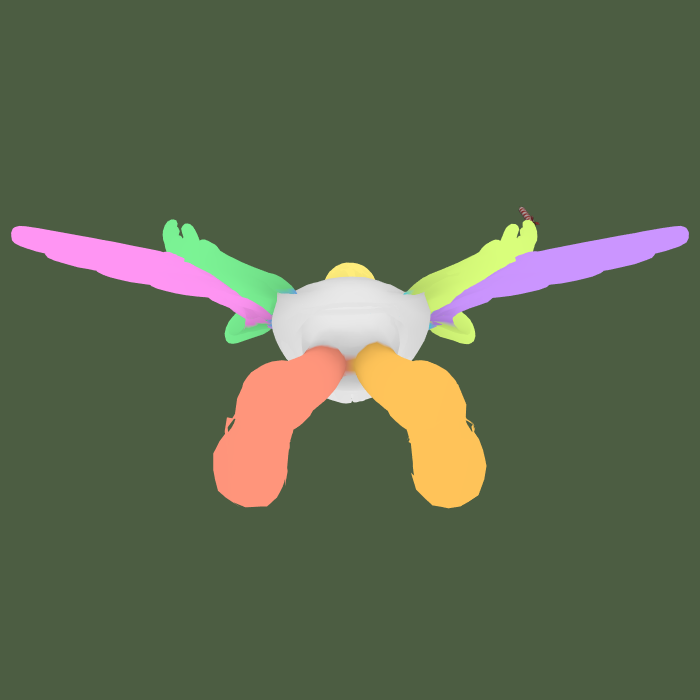
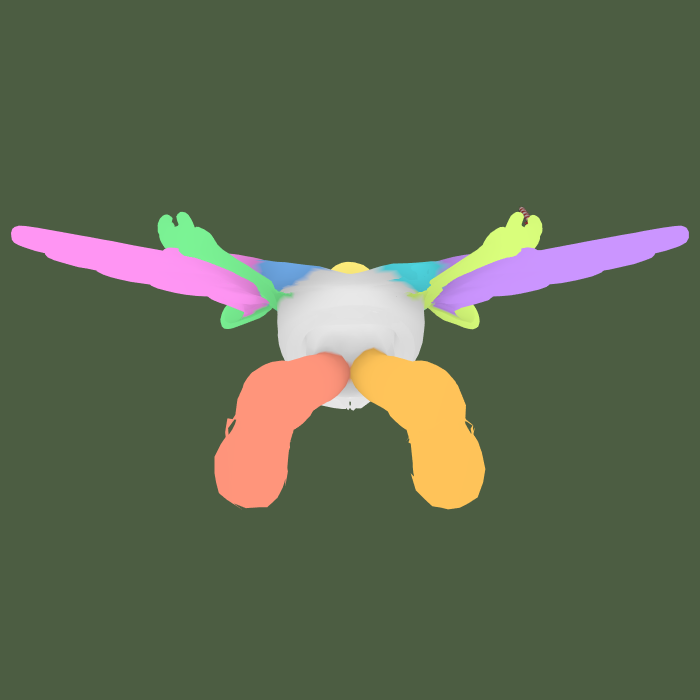
Leave the torso alone — the collarbone takes none of the swing
Whatever share the collarbone takes of the arm's rotation, it takes by
turning the top of the torso, and the torso is the one part of this figure
that needs no help from us. The jacket has a shoulder line, lapels, a collar
and a zip, and all four survive exactly as long as nothing turns them. At
0.45 the shoulders swelled into round pads and took the lapels with them; at
0.80 they hunched forward far enough that from below the whole figure read
as a ball.

Zero. The scan is left as the generator made it and only the arms swing off
it — which is what it was asked for, and it is not a compromise: the blend
the collarbone was added to provide was a splint for straight-line weighting
that let the arm claim the flank, and weighting along the surface keeps them
apart on its own.

The chest-drag check passed at 0.45 and at 0.80 — 0.7 cm and 1.2 cm on a
figure one unit tall, inside a two-centimetre tolerance and visibly wrong
both times. It is a floor, not a verdict, and I read it as a verdict twice.
At zero the chest moves 0.0 cm because it is never asked to move.

Cost: from directly overhead with the wings out, the sleeve passes through
the wing root again. That is a diagnostic angle, against a torso that is on
screen the whole time.

Claude-Session: https://claude.ai/code/session_01AbPj1ecgWZX5NRERgq23EA

diff --git a/src/player/avatar.js b/src/player/avatar.js
@@ -421,8 +421,32 @@ const SKIN_SOFTEN = 0.015;
  *  limb. Legs are set 0.051 apart, so this keeps them from dragging on each
  *  other while still letting the crotch stretch between them. */
 const SKIN_MIDLINE = 0.03;
-/** How much of an arm's swing the collarbone takes rather than the shoulder. */
-const SCAN_CLAVICLE = 0.80;
+/**
+ * How much of an arm's swing the collarbone takes rather than the shoulder.
+ *
+ * None of it, and that is the answer rather than a number to tune. Whatever
+ * share the collarbone takes, it takes by rotating the top of the torso, and
+ * the torso is the one part of this figure that was photographed from every
+ * side and needs no help from us: the jacket has a shoulder line, lapels, a
+ * collar and a zip, and all four survive exactly as long as nothing turns
+ * them. At 0.45 the shoulders swelled into round pads and the lapels went
+ * with them; at 0.80 they hunched far enough forward that from below the
+ * whole figure read as a ball.
+ *
+ * The self-test's chest-drag check passed at both — 0.7 cm and 1.2 cm on a
+ * figure one unit tall, inside a two-centimetre tolerance — so that check is
+ * a floor and not a verdict, and it was read as a verdict twice. At zero the
+ * chest moves 0.0 cm, because it is not asked to move at all: the scan is
+ * left as the generator made it and only the arms swing off it.
+ *
+ * What it buys the shoulder is a blend, and the blend is not needed any more.
+ * It was added when straight-line weighting let the arm claim the flank and
+ * tear a gash at the joint; weighting along the surface keeps them apart on
+ * its own, and the gashes are painted out separately. What it costs is that
+ * from directly overhead, wings out, the sleeve passes through the wing root
+ * — a diagnostic angle, against a torso that is on screen the whole time.
+ */
+const SCAN_CLAVICLE = 0;
 /** Passes of neighbour-averaging over the skin weights. See weighScan(). */
 const SKIN_SMOOTHING = 12;
 
